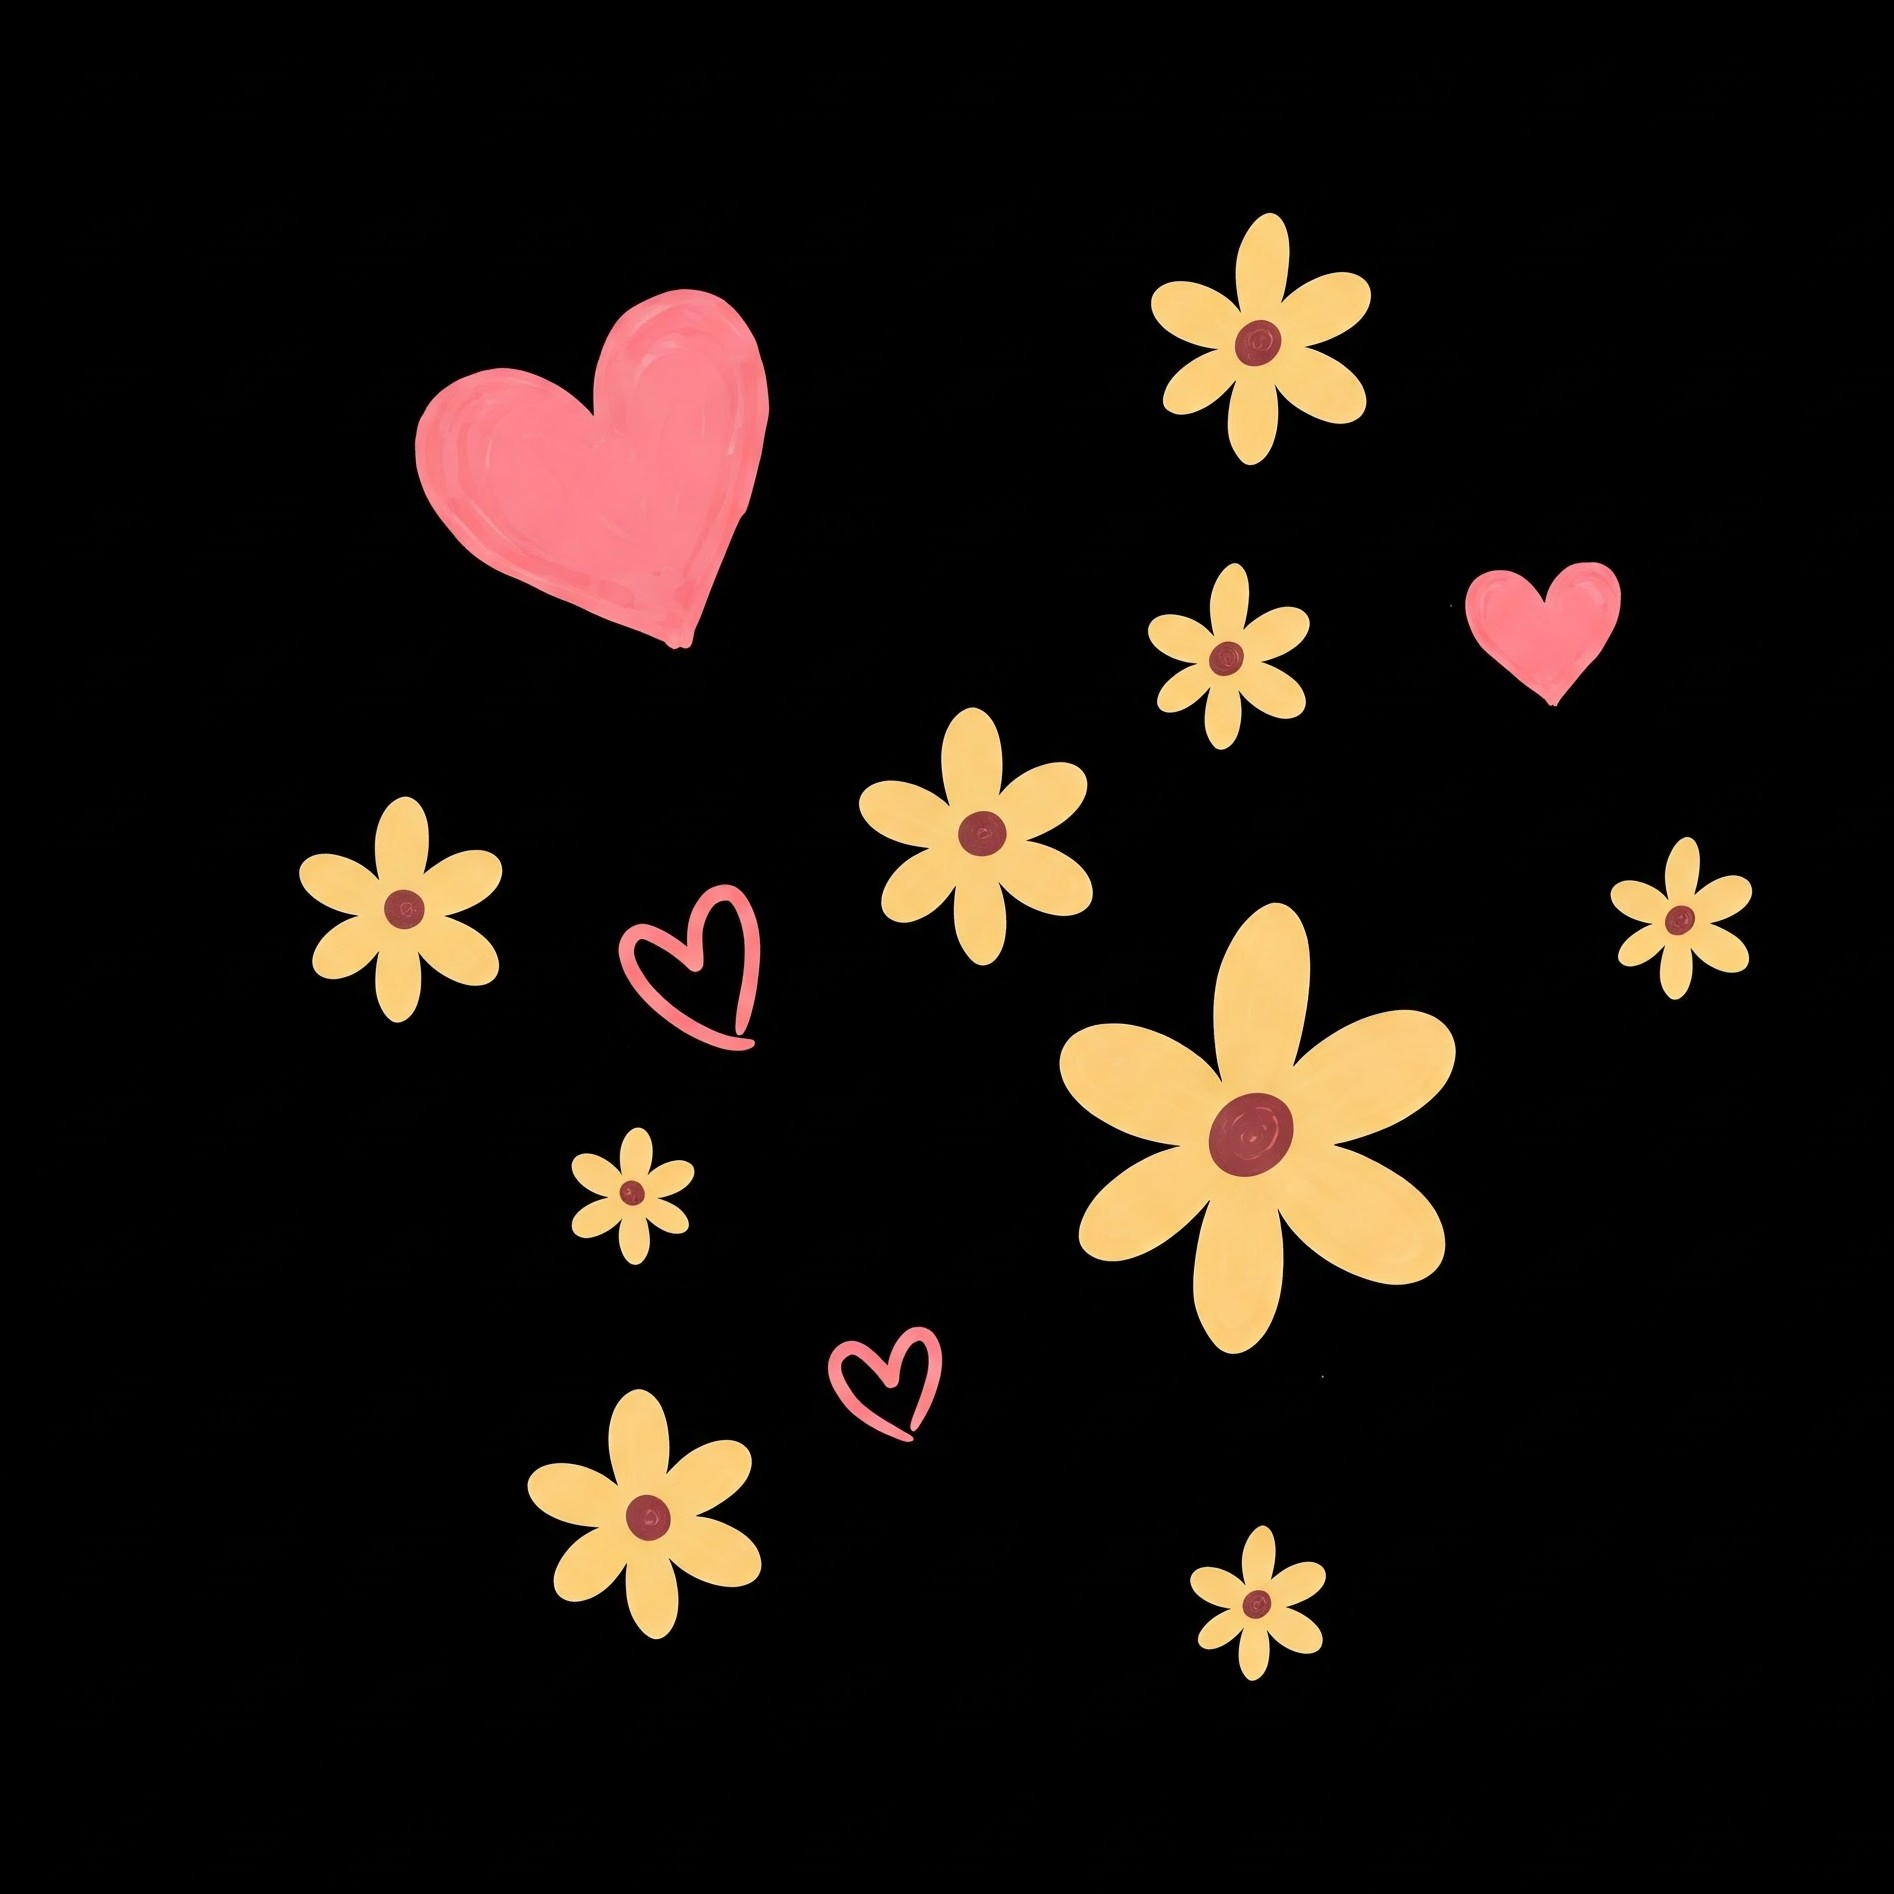
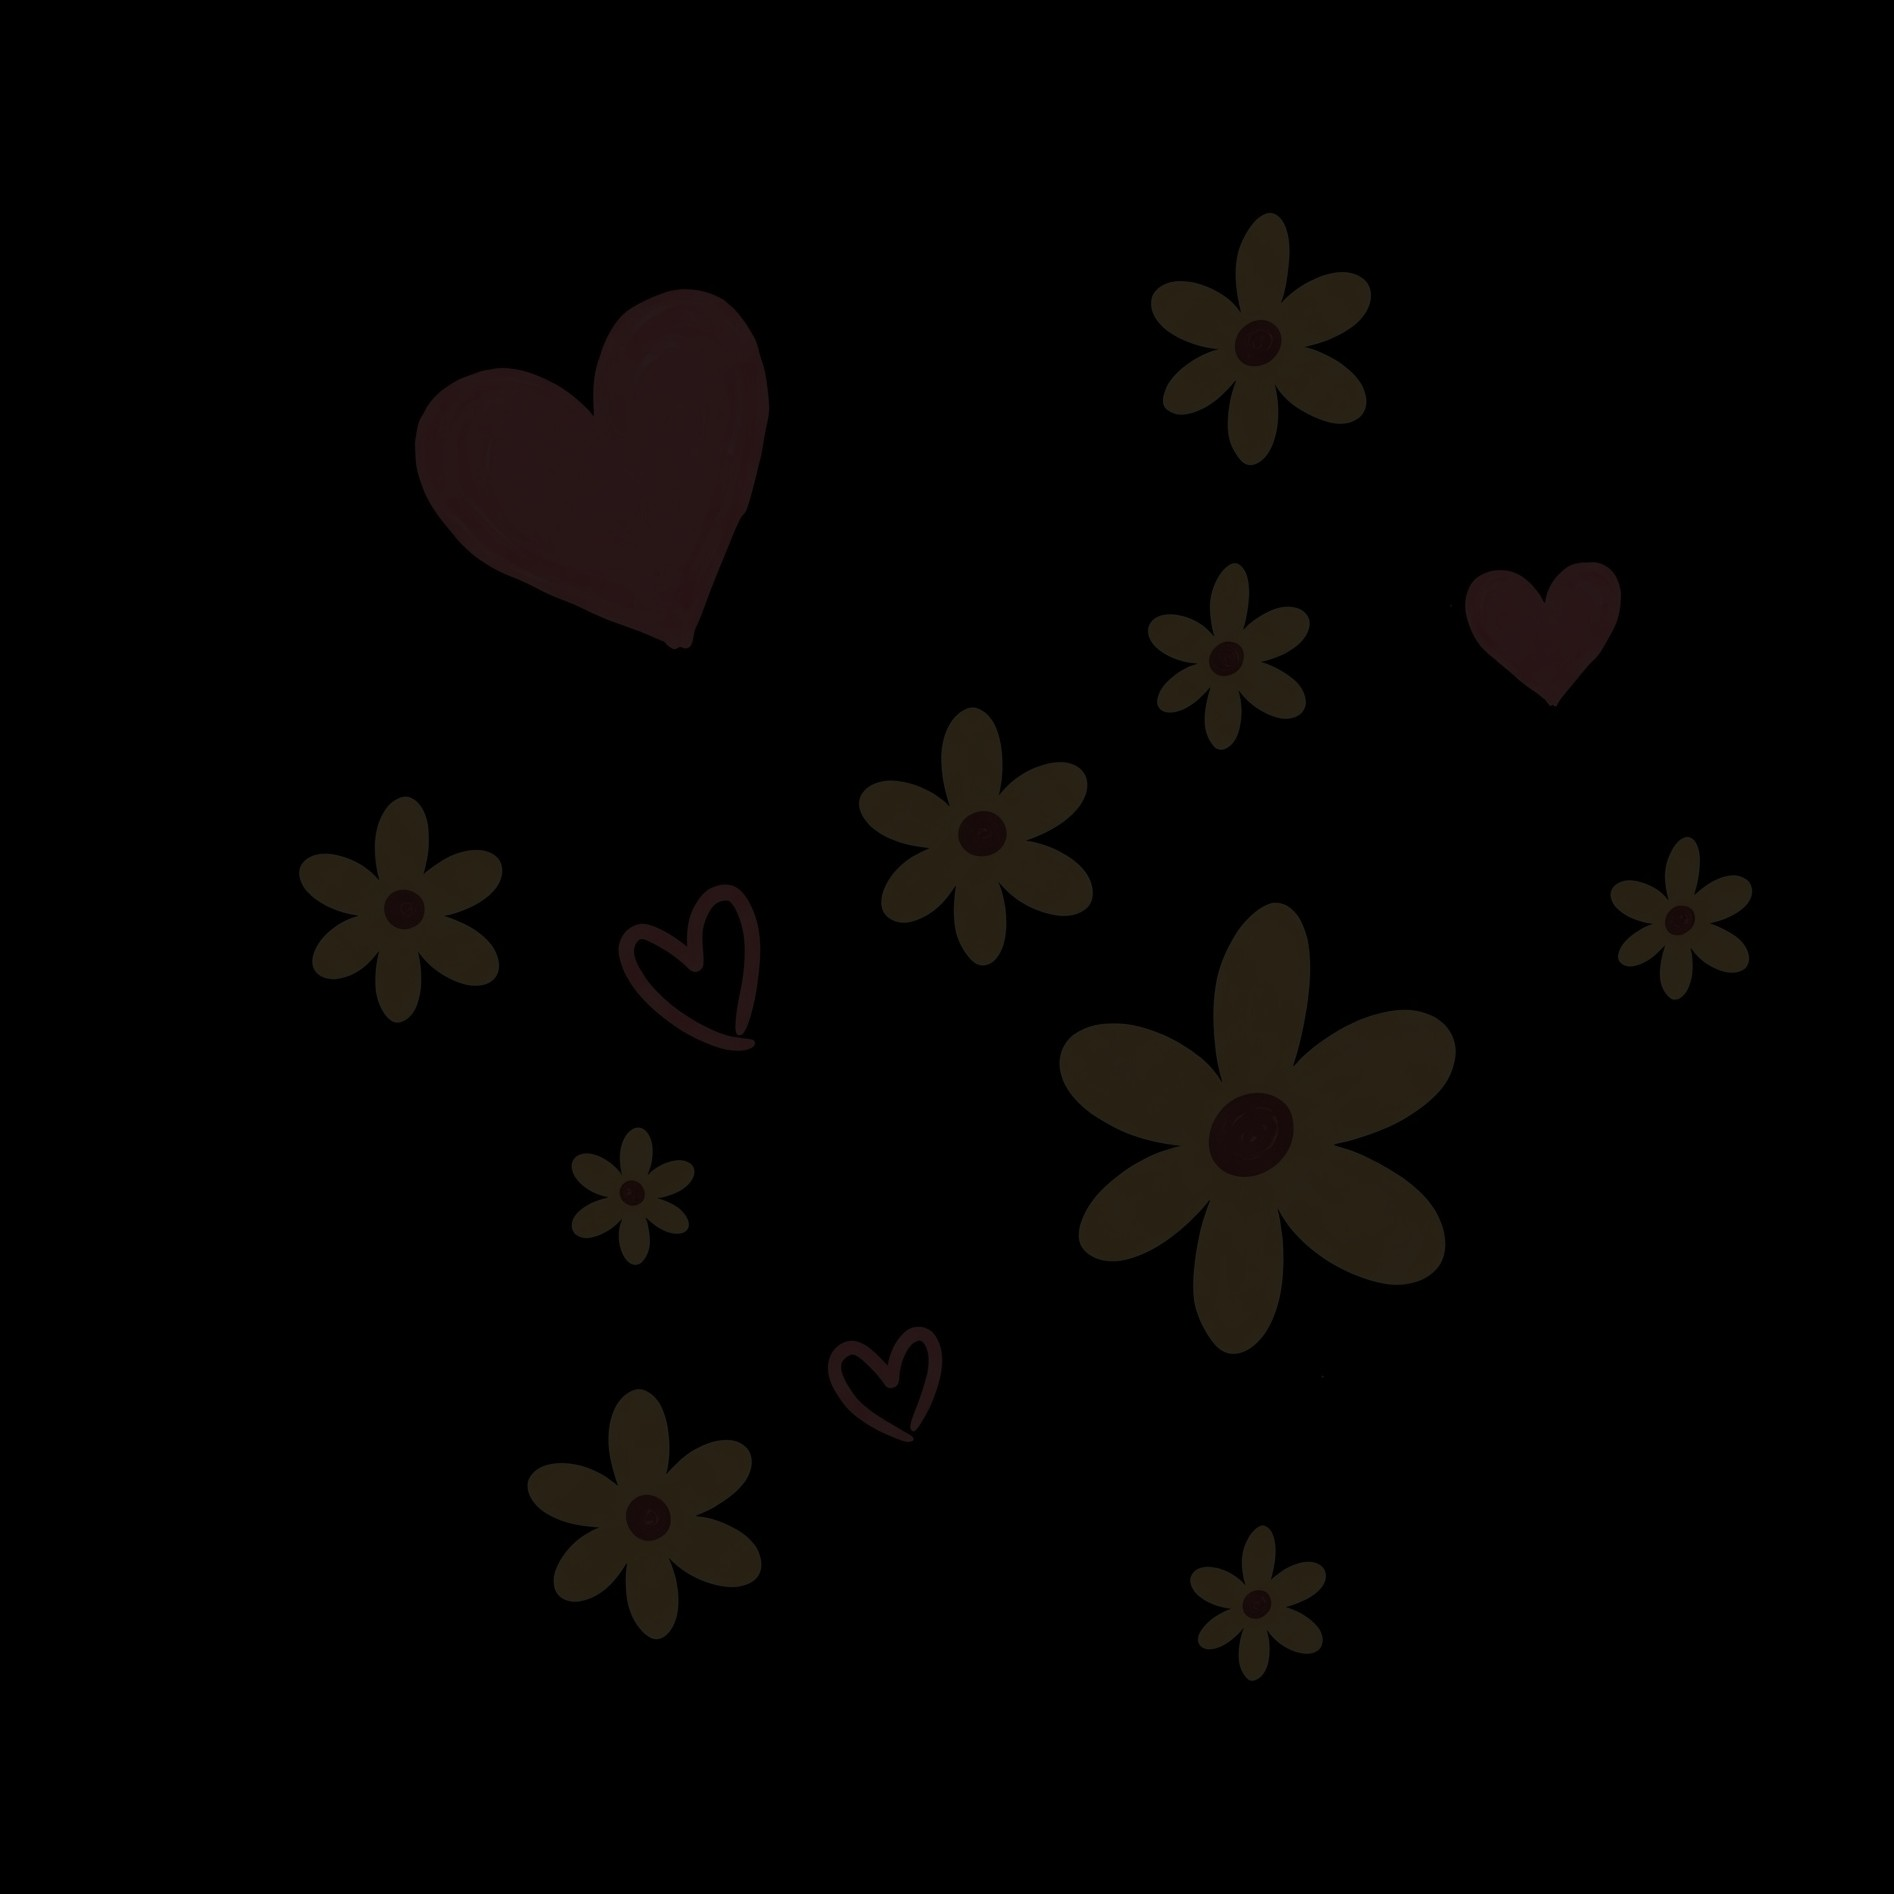
Imge updated and Starry Section created

diff --git a/app/globals.css b/app/globals.css
@@ -413,7 +413,7 @@ header {
 }
 
 .secret-overlay-left {
-  background-color: rgb(101, 53, 69);
+  background-color: rgb(20, 21, 20);
   height: 100%;
   width: 50%;
   position: absolute;
@@ -422,7 +422,7 @@ header {
 }
 
 .secret-overlay-right {
-  background-color: rgb(60, 20, 49);
+  background-color: rgb(12, 13, 12);
   height: 100%;
   width: 50%;
   position: absolute;
@@ -431,7 +431,7 @@ header {
 }
 
 .secret-loker-btn {
-  background-color: rgb(180, 20, 71);
+  background-color: var(--highligter-color);
   outline: none;
   border: none;
   height: 50px;
@@ -461,4 +461,72 @@ header {
   100% {
     transform: translate(-50%, -50%) scale(1);
   }
+}
+
+
+.ag-StarrySection-section {
+  display: flex;
+  align-items: center;
+  justify-content: center;
+  height: 100vh;
+  background-image: url("/images/Starr-bg.png");
+  background-attachment: fixed;
+  background-position: center;
+  background-repeat: no-repeat;
+  background-size: cover;
+}
+
+
+.starry-section {
+  position: relative;
+  min-height: 100vh;
+  width: 100%;
+  overflow: hidden;
+  display: flex;
+  align-items: center;
+  justify-content: center;
+  text-align: center;
+  color: white;
+}
+
+.starry-bg {
+  position: absolute;
+  top: 0;
+  left: 0;
+  width: 100%;
+  height: 100%;
+  /* background: radial-gradient(ellipse at bottom, #0d1b2a, #000); */
+  z-index: 0;
+  pointer-events: none;
+}
+
+.star {
+  position: absolute;
+  background: white;
+  border-radius: 50%;
+  box-shadow: 0 0 6px rgba(255, 255, 255, 0.7);
+  animation: twinkle ease-in-out infinite;
+  opacity: 0;
+}
+
+@keyframes twinkle {
+
+  0%,
+  100% {
+    opacity: 0;
+    transform: scale(0.8);
+  }
+
+  50% {
+    opacity: 1;
+    transform: scale(1.2);
+  }
+}
+
+.starry-content {
+  position: relative;
+  z-index: 1;
+  padding: 2rem;
+  background-color: rgba(0, 0, 0, 0.4);
+  border-radius: 1rem;
 }

diff --git a/app/Components/HomePageComponent/StarrySection.jsx b/app/Components/HomePageComponent/StarrySection.jsx
@@ -1,0 +1,51 @@
+import React, { useEffect } from "react";
+import gsap from "gsap";
+
+const StarrySection = () => {
+  useEffect(() => {
+    const container = document.querySelector(".starry-bg");
+    if (container) {
+      const count = window.innerWidth < 768 ? 80 : 150;
+      for (let i = 0; i < count; i++) {
+        const star = document.createElement("div");
+        star.classList.add("star");
+        container.appendChild(star);
+      }
+
+      document.querySelectorAll(".star").forEach((star) => {
+        const size = Math.random() * 3 + 1;
+        const x = Math.random() * window.innerWidth;
+        const y = Math.random() * window.innerHeight;
+
+        gsap.set(star, {
+          width: size,
+          height: size,
+          x,
+          y,
+          opacity: 0,
+        });
+
+        gsap.to(star, {
+          opacity: Math.random(),
+          duration: Math.random() * 1.5 + 0.5,
+          yoyo: true,
+          repeat: -1,
+          delay: Math.random() * 5,
+          ease: "sine.inOut",
+        });
+      });
+    }
+  }, []);
+
+  return (
+    <section className="starry-section">
+      <div className="starry-bg"></div>
+      {/* <div className="starry-content">
+        <h1>✨ Welcome to the Starry Night ✨</h1>
+        <p>This section has a magical star-filled background!</p>
+      </div> */}
+    </section>
+  );
+};
+
+export default StarrySection;

diff --git a/app/page.js b/app/page.js
@@ -10,6 +10,7 @@ import { HiSpeakerWave, HiSpeakerXMark } from "react-icons/hi2";
 import LoveReason from "./Components/HomePageComponent/LoveReason";
 import GiftGallery from "./Components/HomePageComponent/GiftGallery";
 import SecretMessage from "./Components/HomePageComponent/SecretMessage";
+import StarrySection from "./Components/HomePageComponent/StarrySection";
 
 gsap.registerPlugin(ScrollTrigger);
 
@@ -71,6 +72,9 @@ export default function Home() {
         </section>
         <section className="ag-photo-gallery-section">
           <GiftGallery />
+        </section>
+        <section className="ag-StarrySection-section">
+          <StarrySection />
         </section>
         <section className="ag-secret-message-section">
           <SecretMessage />
